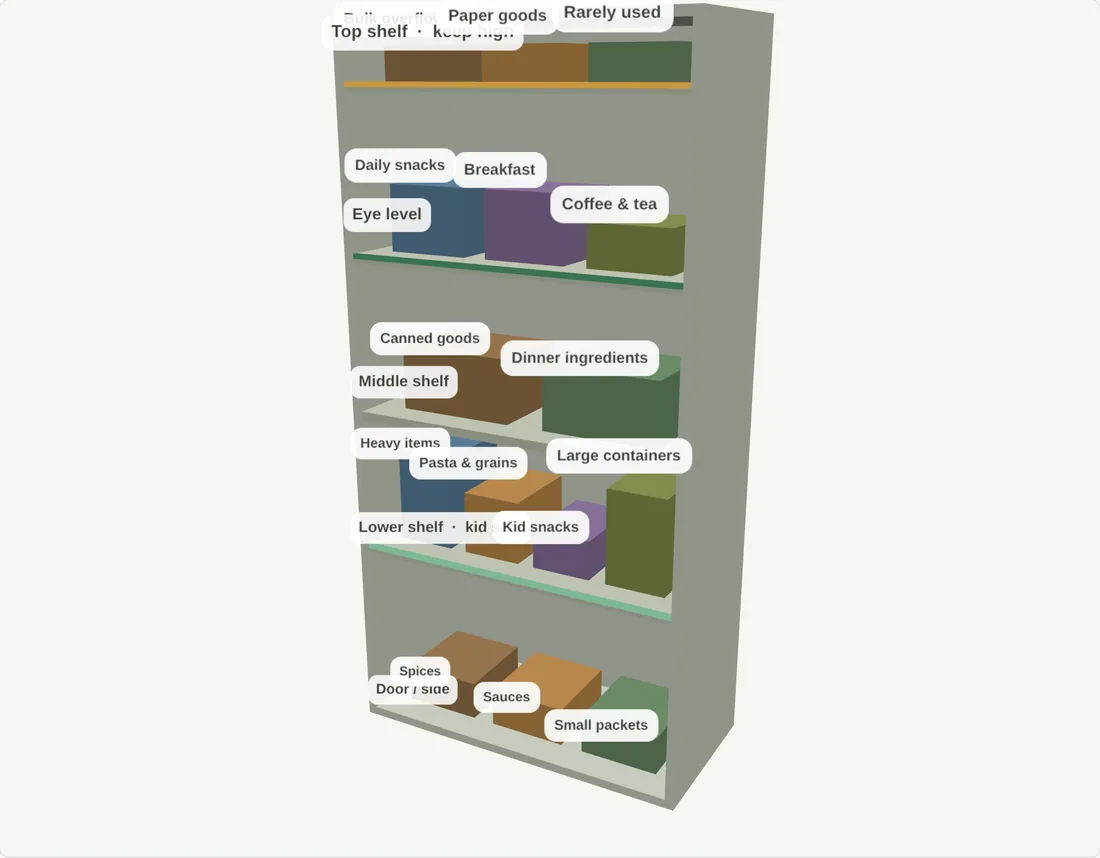
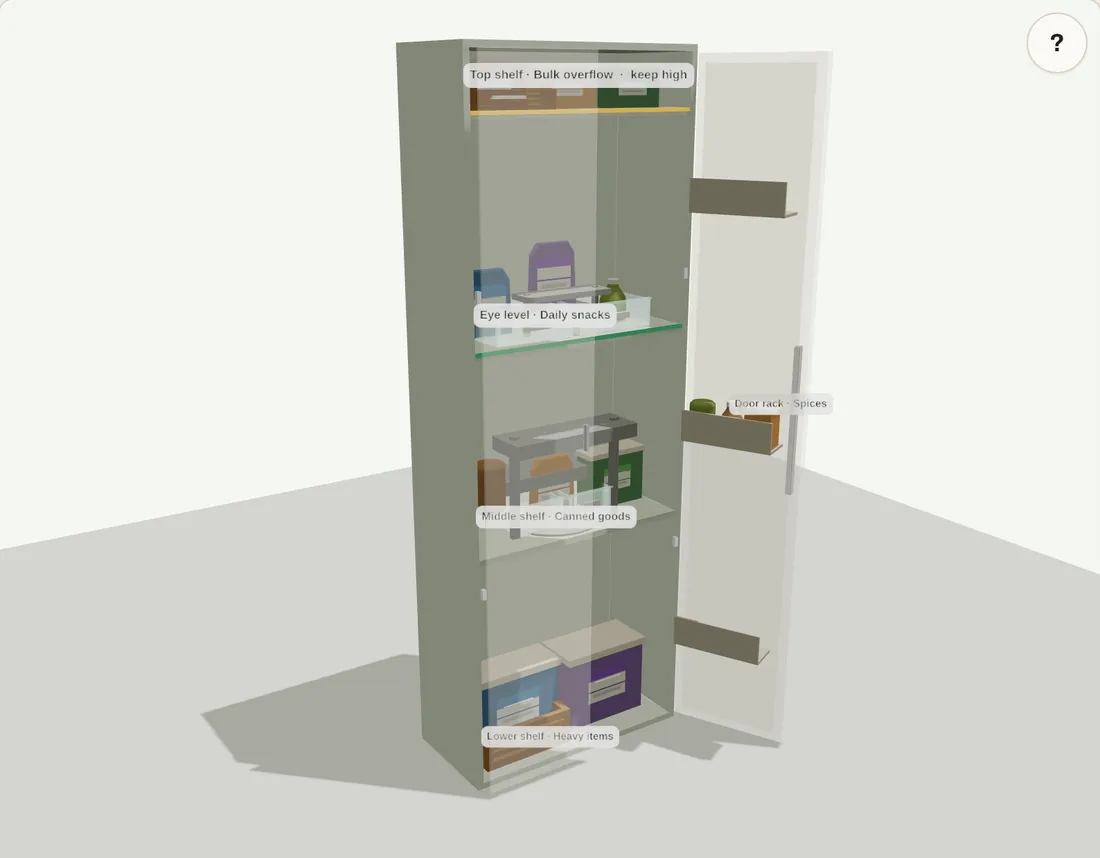
Drop the ink band and recapture the 3D print from today's viewer
The band read as uninviting (owner, 11-26), so the sample plan is back on
the paper; its heading keeps the olive italic, as the hero's does. The 3D
print predated the viewer hiding item labels by default, and showed zone
and item names printed over each other; it is recaptured from the sample
plan in the current viewer and cropped to the file's 1100x858 ratio.

Claude-Session: https://claude.ai/code/session_01B7bWcVFBm8wqyfLoRtv2kz

diff --git a/css/landing.css b/css/landing.css
@@ -120,16 +120,7 @@
 /* ---------- One finished plan ----------
    The plan as a sheet of paper, the organizer's notes in the margin of each
    zone, and the 3D view beside it. */
-/* The one ink band: full bleed without widening the page (the shadow paints
-   the sides, the clip keeps them off the vertical axis). The plan sheet and
-   the 3D print sit on it like paper on a desk. */
-#sample{
-  background:var(--spot-deep);box-shadow:0 0 0 100vmax var(--spot-deep);clip-path:inset(0 -100vmax);
-  margin-top:clamp(64px,10vh,104px);padding-bottom:clamp(64px,10vh,104px);
-}
-#sample > h2{color:var(--stock)}
-#sample > h2 em{font-style:italic;color:var(--band-olive)}
-#sample > .sec-sub,#sample .story-3d figcaption{color:var(--band-ink-3)}
+#sample > h2 em{font-style:italic;color:var(--spot-ink)}
 .story-grid{display:grid;gap:36px;margin-top:40px;align-items:start}
 @media(min-width:860px){.story-grid{grid-template-columns:minmax(0,7fr) minmax(0,5fr);gap:56px}}
 .story-plan{background:var(--stock);box-shadow:var(--shadow-sm);padding:8px clamp(18px,3vw,32px) 22px}

diff --git a/css/tokens.css b/css/tokens.css
@@ -119,10 +119,6 @@
   --clay-l:    oklch(0.80 0.06 50);    /* clay edge */
   --clay-d:    oklch(0.42 0.08 45);    /* clay text */
 
-  /* The landing's one ink band (#sample): text set on spot-deep. */
-  --band-ink-3: oklch(0.80 0.012 80);  /* secondary text on the band, 9:1 */
-  --band-olive: oklch(0.82 0.085 120); /* the olive, lifted to read on the band */
-
   /* ---- Names the stylesheets already speak ------------------------------
      Kept so the wizard, report, viewer and library resolve without a rename
      sweep. Every one lands on the stock, the tint, an ink, or the plate. */

diff --git a/DESIGN.md b/DESIGN.md
@@ -25,8 +25,6 @@ colors:
   sky-f: "oklch(0.93 0.018 240)"
   sky-l: "oklch(0.79 0.04 240)"
   sky-d: "oklch(0.38 0.07 250)"
-  band-ink-3: "oklch(0.80 0.012 80)"
-  band-olive: "oklch(0.82 0.085 120)"
   pen: "oklch(0.372 0.081 266)"
   danger: "oklch(0.52 0.19 28)"
   danger-ink: "oklch(0.45 0.18 28)"
@@ -179,7 +177,7 @@ It is for adults running a household, so it should read as a serious tool with a
 This replaced "The Warm Shelf" on 2026-11-24 (cream paper, terracotta buttons, pastel sage, butter and sky cards, Archivo for everything), which the owner found read as AI-generated: cream with a terracotta accent and rounded pastel cards is the widely recognised generated look. The Warm Shelf had itself replaced the "Home-Economics Manual" (2026-09-07: white, off-black, square corners, caps labels), which read as clinical. So this direction keeps the manual's restraint and the Warm Shelf's soft edges: no caps labels, no square buttons, and no pills on buttons either.
 
 **Key Characteristics:**
-- Warm paper with a faint fibre (`--paper-grain`), near-white sheets with a low warm shadow, hairline rules between rows. Sections are separated by space and hairlines, not boxes. The one exception is the landing's sample plan, set on a single full-bleed ink band (see The Ink Band).
+- Warm paper with a faint fibre (`--paper-grain`), near-white sheets with a low warm shadow, hairline rules between rows. Sections are separated by space and hairlines, not boxes.
 - Real photographs of real spaces carry the page. A photo is a print: a paper mat, a strip of tape, a low shadow.
 - The pen: blue-black handwriting on small paper slips pinned to a photo, or as the margin note under a plan zone. Short notes only, never a sentence the reader must parse.
 - Ink buttons (white label, 10px corners); ghost buttons are an ink outline on the sheet. Chips, tabs and tags take soft corners too (10px, 6px on a small tag); only the toast, progress tracks and round marks stay round.
@@ -204,9 +202,6 @@ This replaced "The Warm Shelf" on 2026-11-24 (cream paper, terracotta buttons, p
 
 ### Supporting fields
 Each family is a field (`-f`), an edge (`-l`) and a deep text colour (`-d`), desaturated to sit on warm paper. Sage is success and safety, butter is warnings, sky is information. They colour a small tag or an icon beside a word, never a callout, a zone or a button, and never a card, with one exception: on the landing's spaces index each room is a card in a field (kitchen sage, bedroom butter, bathroom and hall sky, garage clay), so the rooms read apart at a glance (owner, 11-25). Clay (`clay-f`, `clay-l`, `clay-d`) exists only for that garage card. There the colours name a room, not a state, and the rows stay ink on the field.
-
-### The Ink Band
-The landing's sample-plan section (`#sample`) sits on one full-bleed band of `spot-deep`, so the page has one dark moment between the light ones and the plan sheet and 3D print read as paper laid on a desk (owner, 11-26: the page read as bland, all paper and sheet). Its heading is `stock` with the italic phrase in `band-olive`, the olive lifted to read on the dark; its subtitle and caption are `band-ink-3`. Everything else on the band is a stock sheet keeping its own inks. There is one band on the site: a second dark section would turn an accent into a theme.
 
 ### The step clips' palette
 The checklist clips are baked video (`remotion/`), coloured from `remotion/src/tokens.ts`, a test-held copy of these tokens: the band is `tint`, items are `stock`, structure is `draw`, the accent is olive (`spot-ink` over `tint-2`), and a label is a paper tag with a drawn edge. `.step-art` points the inline stand-in scenes at the same tokens. A change to any of them is a `--force` re-render.
